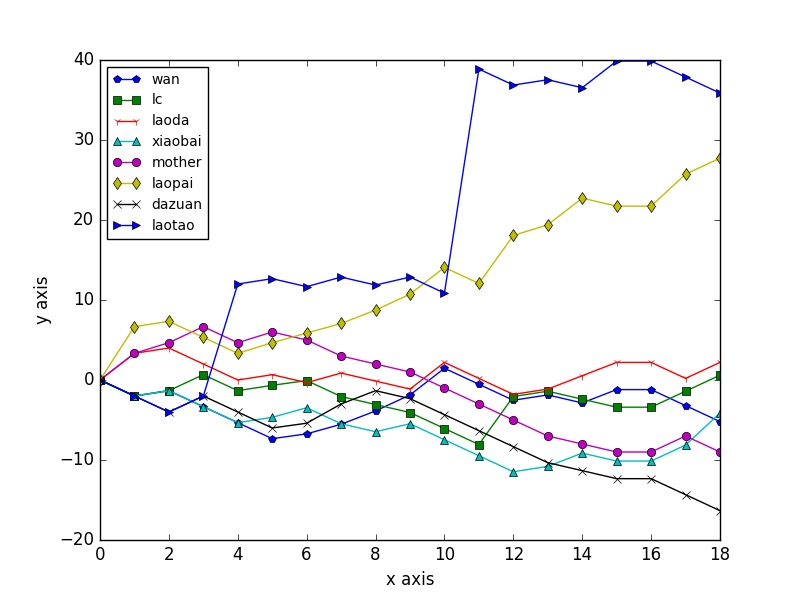
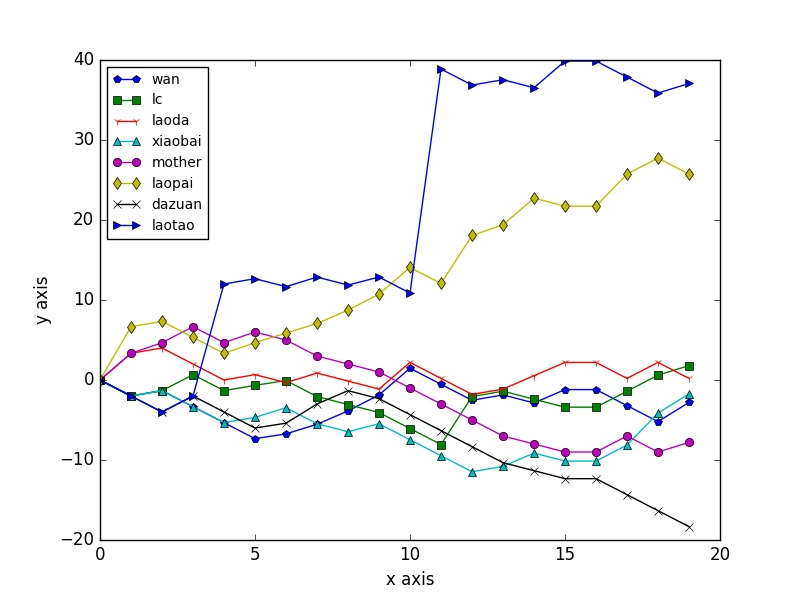
update

diff --git a/README.md b/README.md
@@ -1,23 +1,43 @@
 # E cup guess competition report
 ## real-time ranking
-2016-06-17 12:03:51
+2016-06-17 22:56:09
 
 |rank|name|score|
 |:---:|:---:|:---:|
-|1|laotao|35.87|
-|2|laopai|27.73|
-|3|laoda|2.20|
-|4|lc|0.60|
-|5|xiaobai|-4.13|
-|6|wan|-5.20|
-|7|mother|-9.00|
-|8|dazuan|-16.33|
+|1|laotao|37.07|
+|2|laopai|25.73|
+|3|lc|1.80|
+|4|laoda|0.20|
+|5|xiaobai|-1.73|
+|6|wan|-2.80|
+|7|mother|-7.80|
+|8|dazuan|-18.33|
 
 ## Pond
-587.27
+584.87
 
 ## History
 ![image](https://github.com/Anserw/E_Cup/blob/master/plot.jpg)
+### 2016061721 Italy 1 : 0 Sweden
+- handicap: -0.5
+- scorer: laotao
+- owners:
+ - Italy: xiaobai
+ - Sweden: wan
+
+
+|name|guess|score change|
+|:---:|:---:|:---:|
+|wan|Italy|2.40|
+|lc|Italy|1.20|
+|laoda|Sweden|-2.00|
+|xiaobai|Italy|2.40|
+|mother|Italy|1.20|
+|laopai|Sweden|-2.00|
+|dazuan|Sweden|-2.00|
+|laotao|Italy|1.20|
+|Pond|..|-2.40|
+
 ### 2016061703 Germany 0 : 0 Poland
 - handicap: -1
 - scorer: laotao
